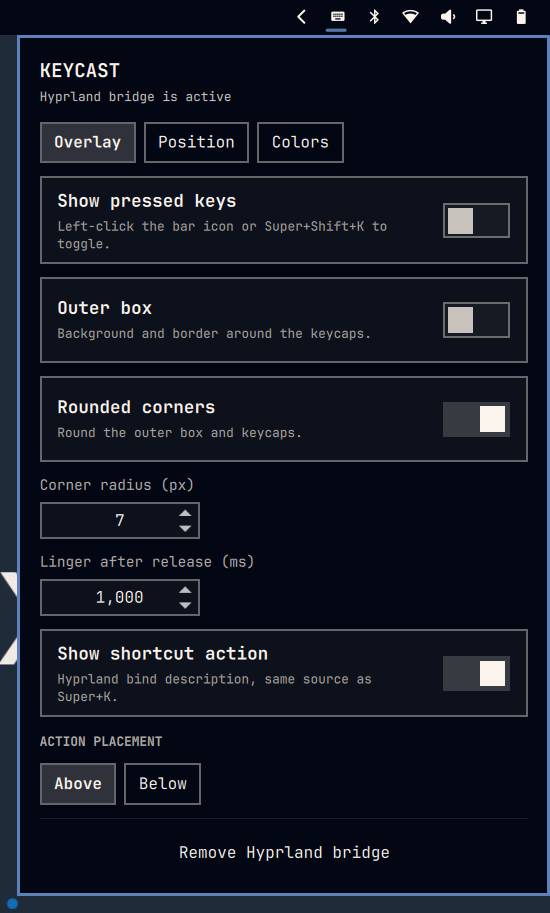
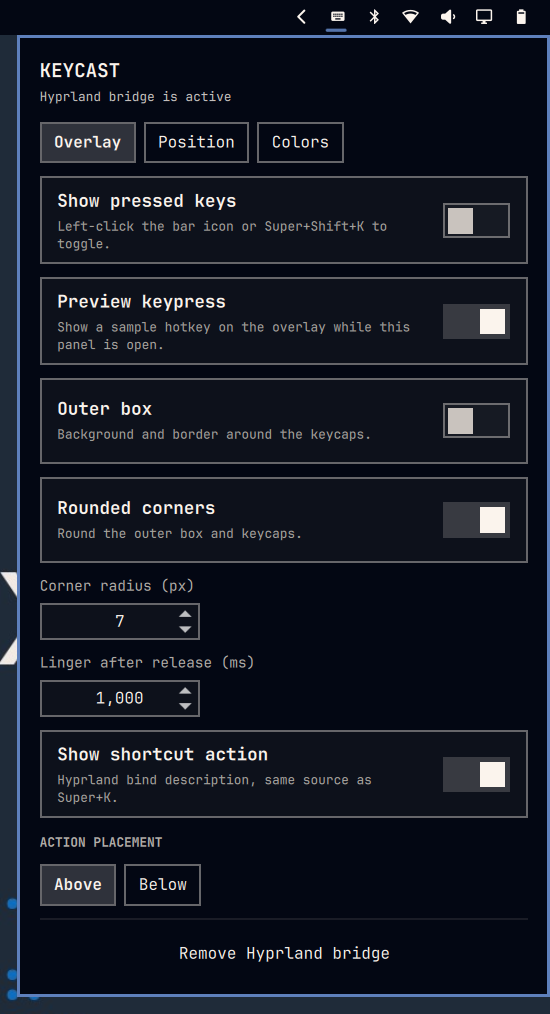
docs: refresh overlay settings screenshot with preview toggle
- Crop latest Pictures shot to the upper-right Overlay page
- Caption mentions optional sample hotkey while the panel is open

diff --git a/README.md b/README.md
@@ -14,11 +14,10 @@ shortcut. The box is click-through so it does not steal clicks in a recording.*
 
 ![Overlay settings](screenshots/settings-overlay.png)
 
-*Overlay page - right-click the bar icon. Turn the overlay on, set outer box
-and rounding, linger after release, and place the shortcut action above or
-below the keys. Optionally show a sample hotkey on the overlay while this
-panel is open so placement and look update immediately. The Hyprland bridge is
-installed or removed from this page.*
+*Overlay page - right-click the bar icon. Turn the overlay on, optionally preview
+a sample hotkey while this panel is open, set outer box and rounding, linger
+after release, and place the shortcut action above or below the keys. The
+Hyprland bridge is installed or removed from this page.*
 
 ![Position settings](screenshots/settings-position.png)
 
